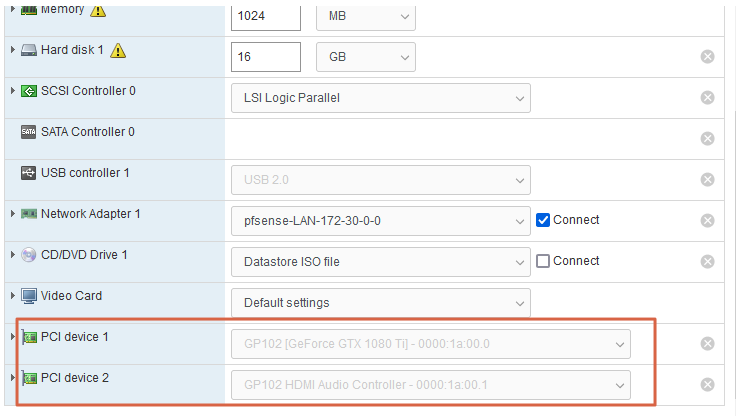
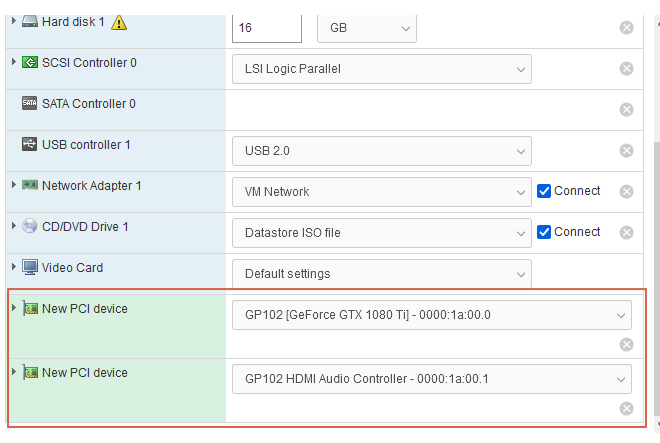
update creating-vm-on-esxi document

diff --git a/systems/creating-vm-on-esxi.md b/systems/creating-vm-on-esxi.md
@@ -1,5 +1,7 @@
 # 透過 ESXi 管理界面建立 VM
 
+事前準備：在VM要安裝OS的ISO檔、北科IP(給MV使用的，請和實驗室總管聯繫取得)
+
 1. 登入 ESXi 管理界面
 
 ![](/img/creating-vm-on-esxi/fig1.png)
@@ -30,43 +32,50 @@
 
 ![](/img/creating-vm-on-esxi/fig8.jpg)
 
-10. 為你的VM命名，如果是作為個人使用，請用學號末三碼作為開頭，ex. `017-ubuntu`
+10. 為你的VM命名，如果是作為個人使用，請用學號末三碼作為開頭，ex. `017-ubuntu`，然後選擇你ISO檔的作業系統種類，ESXi會依照這個設定進行VM最佳化。
 
-![](/img/creating-vm-on-esxi/fig9.jpg)
+![](/img/creating-vm-on-esxi/fig9.png)
 
 11. 接著來選擇儲存區，這是指VM的硬碟要放在哪個儲存區，建議這邊不要選FreeNAS，把VM的硬碟放在網路磁碟上，效能會比較差。
 
 ![](/img/creating-vm-on-esxi/fig10.png)
 
-12. 接著是VM的設定，請注意 Hard Dick 設定要展開，確認 **Dick Provisioning** 必須是 **Thin Provision**，也就是**精簡佈建**。若不是，請更改此設定
+12. 接著是VM的設定，請注意 Hard Disk 設定要展開，確認 **Dick Provisioning** 必須是 **Thin Provision**，也就是**精簡佈建**。若不是，請更改此設定
 
 ![](/img/creating-vm-on-esxi/fig11.png)
 
-13. 在光碟機掛載剛才上傳的ISO。選擇**Datastore ISO file**
+13. 設定**Network Adapter**，下拉選單選擇**VM Network**
+
+![](/img/creating-vm-on-esxi/fig19.png)
+
+14. 在光碟機掛載剛才上傳的ISO。選擇**Datastore ISO file**
 
 ![](/img/creating-vm-on-esxi/fig12.png)
 
-14. 接著選擇你剛剛上傳的ISO檔
+15. 接著選擇你剛剛上傳的ISO檔
 
 ![](/img/creating-vm-on-esxi/fig13.png)
 
-15. 如果在 AI學習機要使用顯卡的話，選擇 **Add other device** > **PCI Device**
+16. 如果在 AI學習機要使用顯卡的話，選擇 **Add other device** > **PCI Device**
 
 ![](/img/creating-vm-on-esxi/fig15.png)
 
-16. 接著選擇顯示卡的型號
+17. 接著選擇顯示卡的型號
 
 ![](/img/creating-vm-on-esxi/fig16.png)
 
-17. 一張顯示卡要新增兩個 PCI Device，一個是顯卡本身、另一個是**HDMI Audio Controller**，只新增其中一個會無法開機VM。注意兩個的PCI位置(?) 開頭要一樣，像圖片中就是 `0000:1a:00`開頭的，不然一樣無法開機
+18. 一張顯示卡要新增兩個 PCI Device，一個是顯卡本身、另一個是**HDMI Audio Controller**，只新增其中一個會無法開機VM。注意兩個的PCI位置(?) 開頭要一樣，像圖片中就是 `0000:1a:00`開頭的，不然一樣無法開機
 
 ![](/img/creating-vm-on-esxi/fig17.png)
 
 ![](/img/creating-vm-on-esxi/fig18.png)
 
-18.  確認設定沒問題後，**Next** > **Finish** 即可
-19.  剛剛建立好的VM會是關機狀態，找到剛剛的VM，勾選並按**power on**
+19.  確認設定沒問題後，**Next** > **Finish** 即可
+20.  剛剛建立好的VM會是關機狀態，找到剛剛的VM，勾選並按**power on**
 
 ![](/img/creating-vm-on-esxi/fig14.png)
 
-20. 接著就會進入 OS 的安裝程序了
+21. 接著就會進入 OS 的安裝程序了
+22. VM 第一次開機時，ESXi會分派一個MAC地址給VM，點選那台VM查看詳細資訊，在圖片中的頁面展開**Network adapter**查看 MAC Address，**將這個MAC Address新增到學校的[網管系統](netflow.ntut.edu.tw)，並建立IP與MAC的關聯**，VM才能上網。
+
+![](/img/creating-vm-on-esxi/fig20.png)

diff --git a/README.md b/README.md
@@ -46,7 +46,7 @@
 6. Dive deep
    - 我在每個文件後面都會有 Dive deep 區塊，如果想了解更多細節，別害怕就直接 dive deep吧，工程師的價值就是這麼來的
 
-## 系統網路
+## 系統網路 ⚙
 
 Work in progress
 
@@ -70,7 +70,7 @@ Work in progress
   - [VMWare vSphere (ESXi 與 vCenter) 管理](systems/vsphere.md)
   - [透過 ESXi 管理界面建立 VM](systems/creating-vm-on-esxi.md)
 
-## 實驗室網頁開發
+## 實驗室網頁開發 🌏
 Work in progress
 
 - [Netlab 網站開發文件](web/web-dev.md)

diff --git a/systems/creating-vm-on-vcenter.md b/systems/creating-vm-on-vcenter.md
@@ -1,0 +1,1 @@
+# 透過 vCenter 管理界面建立 VM
